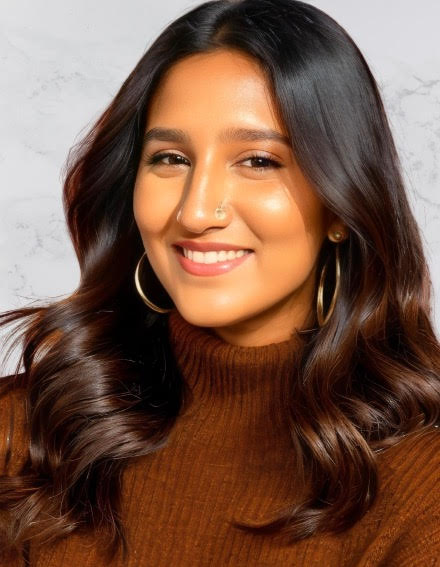
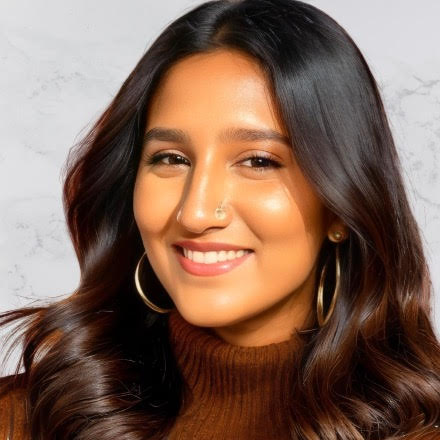
:pencil2: Text and Image Updates
Updates to team fun facts, changes to some image dimensions to keep consistent spacing, and fixed some typos!

diff --git a/modules/TeamData.ts b/modules/TeamData.ts
@@ -3,16 +3,16 @@ export const data = [
         teamName: "Co-Directors",
         teamMembers: [
             {
-                name: "Ronit Anadani",
+                name: "Ronit Anandani",
                 position: "Co-Director",
-                funFact: "...",
+                funFact: "I love Pizza...without cheese 😆",
                 photo: "/team/RonitAnandani.jpg",
                 emoji: "🤔"
             },
             {
                 name: "Pinakin Kanade",
                 position: "Co-Director",
-                funFact: "...",
+                funFact: "I used to play the bassoon competitively for 6 years!",
                 photo: "/team/PinakinKanade.jpg",
                 emoji: "😂"
             }
@@ -121,7 +121,7 @@ export const data = [
             {
                 name: "Alex Fang",
                 position: "Design Co-Lead",
-                funFact: "..",
+                funFact: "I love drawing cats",
                 photo: "/team/AlexFang.jpg",
                 emoji: "😂"
             },
@@ -185,7 +185,7 @@ export const data = [
             {
                 name: "Samuel Tinubu",
                 position: "",
-                funFact: "...",
+                funFact: "I honestly don't know how to respond to text messages",
                 photo: "/team/SamuelTinubu.jpg",
                 emoji: "🫥"
             }
